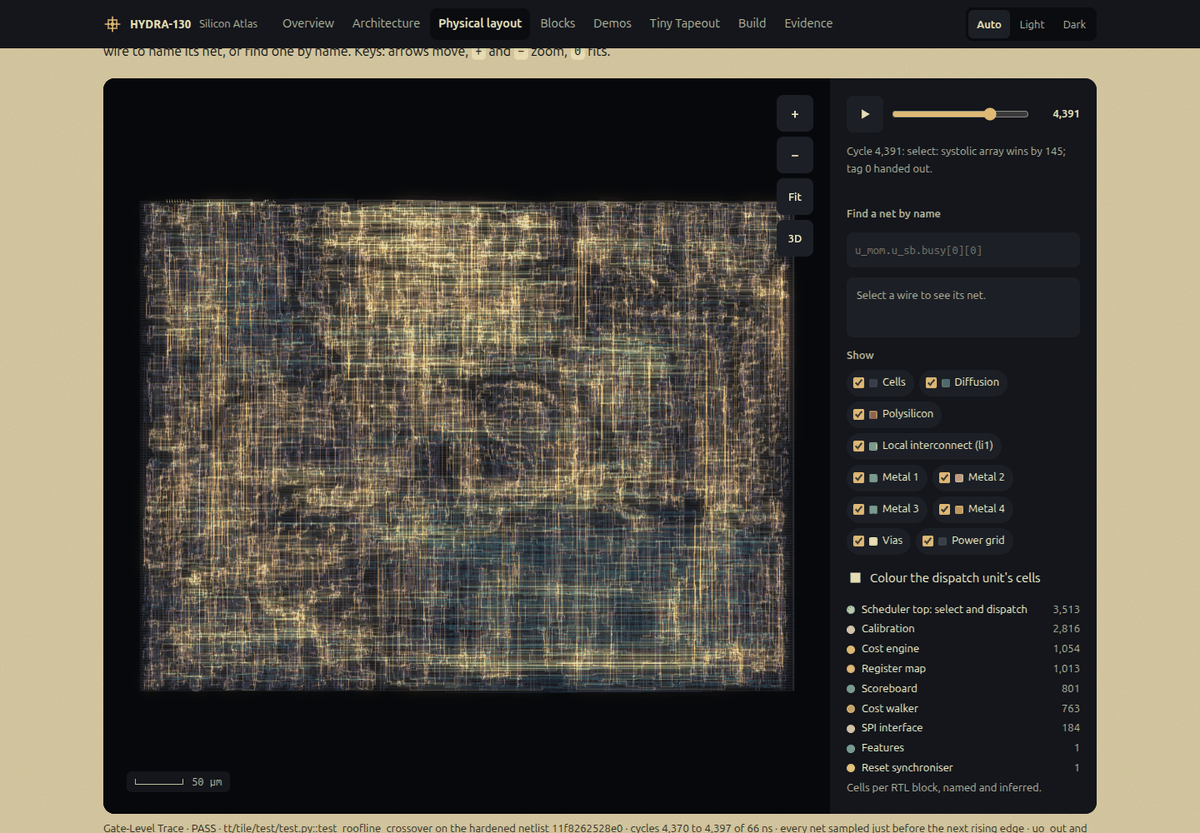
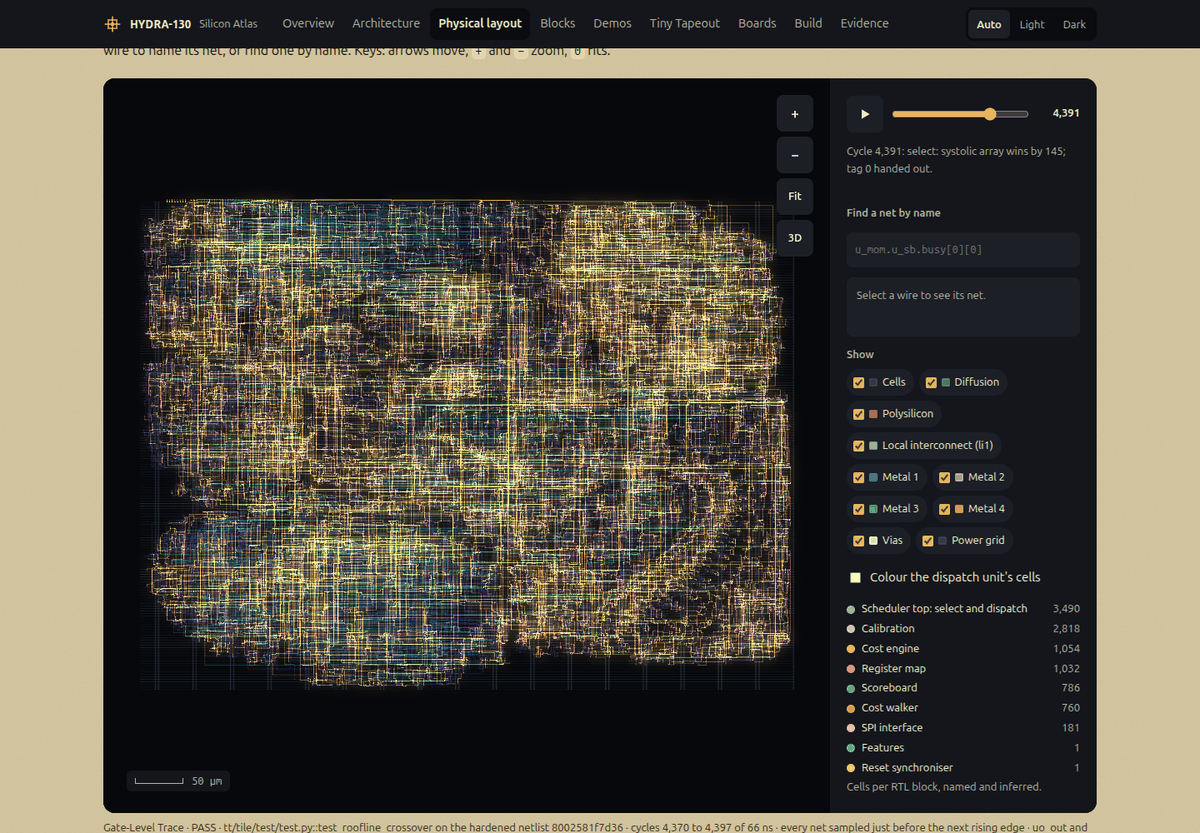
v68: every chip input read and the control space fully decoded (PINS register, address bits [13:4]); CPU console UART, LEDs and buttons routed to GPIO pads by I2C OWNER (0x0D); bare-metal C kit (make baremetal: hello.c on the model, the flat, cached and chip-SRAM CPU and the whole chip); microcontro

diff --git a/test/test_regs.py b/test/test_regs.py
@@ -22,7 +22,7 @@ from cocotb.triggers import ClockCycles
 from test import (build_descriptor, bit, start, Tile, OPC_GEMM, DT_INT8,
                   LAT_BALANCED, PWR_BALANCED, ENG_NAME, ENG_SIMD, ENG_TPU, NTAG,
                   ID_V3, A_ID, A_WD, A_CTRL, A_ACTION, A_COMP, A_STATUS, A_RESULT,
-                  A_RESERVED07, A_CALUPD, A_BUSY, A_FENCE, A_PARAM, A_GLOBAL, A_INFO,
+                  A_RESERVED07, A_CALUPD, A_BUSY, A_FENCE, A_PARAM, A_GLOBAL, A_INFO, A_PINS, A_GPO,
                   ST_READY, ST_BUSY, ST_PENDING, ST_WD_OK, ST_DISP, ST_UNSUPP,
                   ST_STALE, ST_FRAME, ST_GOERR, ST_FENCE, ST_PLOCK, ST_HOLD,
                   SMALL, LARGE)
@@ -390,3 +390,70 @@ async def test_reg_fence_on_a_tag_that_does_not_exist(dut):
         assert not bit(st, ST_FENCE), f"fence on nonexistent tag {tag} reads busy: {st:#06x}"
     await t.write(A_FENCE, 0)
     assert bit(await t.status(), ST_FENCE), "fence on a busy real tag reads free"
+
+
+@cocotb.test()
+async def test_reg_pins_read_every_spare_input(dut):
+    """PINS (0x0E, v3.11) gives every otherwise unused input pin a job.
+
+    ui_in[7:3] are general-purpose inputs, uio_in reads back the
+    bidirectional pads (on silicon they carry the tile's own tag and margin,
+    so a mismatch points at a pad driver or the board), and ena is bit 13.
+    The value must follow the pins through the two-flop synchroniser, bit for
+    bit, while SPI traffic runs on ui_in[2:0], and must never leak into the
+    SPI pins' function. A walking one and random patterns check every bit
+    and every position.
+    """
+    import random
+    rnd = random.Random(0x50E)
+    t = await start(dut)
+    patterns = [(1 << i) for i in range(14)] + [rnd.getrandbits(14) for _ in range(12)] + [0x3FFF, 0]
+    for want in patterns:
+        uio, gpi, ena = want & 0xFF, (want >> 8) & 0x1F, (want >> 13) & 1
+        dut.uio_in.value = uio
+        dut.ena.value = ena
+        t.gpi = gpi
+        t._set()
+        await ClockCycles(dut.clk, 3)
+        got, _ = await t.read(A_PINS)
+        assert got == want, f"PINS read {got:#06x}, pins are {want:#06x} (ena {ena}, ui_in[7:3] {gpi:#04x}, uio_in {uio:#04x})"
+    dut.ena.value = 1
+    # the spare inputs must not disturb the register interface
+    t.gpi = 0x1F
+    t._set()
+    ident, _ = await t.read(A_ID)
+    assert ident == ID_V3, f"ID read {ident:#x} with ui_in[7:3] all high"
+    assert not bit(await t.status(), ST_FRAME), "spare inputs caused a frame error"
+    # read-only: a write is a frame error and changes nothing
+    await t.write(A_PINS, 0x0000, nbytes=2)
+    assert bit(await t.status(), ST_FRAME), "write to PINS was not refused"
+    got, _ = await t.read(A_PINS)
+    assert got == (1 << 13) | (0x1F << 8), f"PINS changed by a write: {got:#06x}"
+
+
+@cocotb.test()
+async def test_reg_gpo_drives_the_spare_bidirectionals(dut):
+    """uio[3:2] were tag bits that four tags never set (always 0). Since
+    v3.11 they are general-purpose outputs written in GPO (0x0F): reset 0,
+    each value appears on the pins and reads back, the tag keeps uio[1:0],
+    and with uio_in looped back from uio_out (as the pads do on silicon) the
+    PINS register sees them."""
+    t = await start(dut)
+    assert (int(dut.uio_out.value) >> 2) & 3 == 0, "GPO not 0 after reset"
+    assert (await t.read(A_GPO))[0] == 0
+    st, r = await t.dispatch(SMALL)
+    assert bit(st, ST_DISP)
+    tag = r["tag"]
+    for v in (1, 2, 3, 0, 3):
+        await t.write(A_GPO, v)
+        uio = int(dut.uio_out.value)
+        assert (uio >> 2) & 3 == v, f"GPO wrote {v}, uio[3:2] = {(uio >> 2) & 3}"
+        assert uio & 3 == tag, f"the tag on uio[1:0] changed to {uio & 3} after a GPO write"
+        assert (await t.read(A_GPO))[0] == v, "GPO did not read back"
+        dut.uio_in.value = uio                    # the pads, looped back
+        await ClockCycles(dut.clk, 3)
+        pins, _ = await t.read(A_PINS)
+        assert pins & 0xFF == uio, f"PINS saw uio {pins & 0xFF:#04x}, pads carry {uio:#04x}"
+    assert not bit(await t.status(), ST_FRAME), "a GPO write was refused"
+    await t.write(A_GPO, 0xFC)                     # only bits 1:0 exist
+    assert (await t.read(A_GPO))[0] == 0, "GPO kept bits above [1:0]"

diff --git a/test/test.py b/test/test.py
@@ -58,10 +58,10 @@ ENG_NAME = {0: "CPU", 1: "SIMD", 2: "TPU", 3: "NTT", 4: "CRYPTO"}
 # ---------------------------------------------------------------------------
 A_ID, A_WD, A_CTRL, A_ACTION, A_COMP, A_STATUS = 0x00, 0x01, 0x02, 0x03, 0x04, 0x05
 A_RESULT, A_RESERVED07, A_CALUPD, A_BUSY, A_FENCE, A_PARAM = 0x06, 0x07, 0x08, 0x09, 0x0A, 0x0B
-A_GLOBAL, A_INFO = 0x0C, 0x0D
+A_GLOBAL, A_INFO, A_PINS, A_GPO = 0x0C, 0x0D, 0x0E, 0x0F
 LEN = {A_ID: 4, A_WD: 16, A_CTRL: 1, A_ACTION: 1, A_COMP: 1, A_STATUS: 2,
        A_RESULT: 6, A_CALUPD: 2, A_BUSY: 2, A_FENCE: 1, A_PARAM: 6,
-       A_GLOBAL: 2, A_INFO: 1}
+       A_GLOBAL: 2, A_INFO: 1, A_PINS: 2, A_GPO: 1}
 ID_V3 = 0x48594D33  # "HYM3"
 
 # STATUS bits (16-bit register, MSB first as documented in hydra_tt_regs.sv)
@@ -109,6 +109,7 @@ class Tile:
     def __init__(self, dut):
         self.dut = dut
         self.pins = 0b100          # CSn idle high
+        self.gpi = 0               # ui_in[7:3], the general-purpose inputs
 
     def _set(self, sck=None, copi=None, csn=None):
         if sck is not None:
@@ -117,7 +118,7 @@ class Tile:
             self.pins = (self.pins & ~0b010) | ((copi & 1) << 1)
         if csn is not None:
             self.pins = (self.pins & ~0b100) | ((csn & 1) << 2)
-        self.dut.ui_in.value = self.pins
+        self.dut.ui_in.value = self.pins | ((self.gpi & 0x1F) << 3)
 
     async def xfer(self, tx_bytes, stop_after=None):
         """One CS-framed transfer. Returns the bytes seen on CIPO.

diff --git a/test/mutate_sim.py b/test/mutate_sim.py
@@ -89,6 +89,18 @@ MUTATIONS = [
      "src/rtl/mom_top.sv", "        ccapable_q[lane_idx] <= lane_capable;",
      "        ccapable_q[lane_idx] <= lane_capable && !engine_full[lane_idx];",
      "test_full_only_engine_recovers"),
+    ("PINS reads the SPI pins instead of the spare inputs (v3.11)",
+     "src/tt_um_hydra_mom.sv", "pins_meta <= {ena, ui_in[7:3], uio_in};",
+     "pins_meta <= {ena, ui_in[6:2], uio_in};",
+     "test_reg_pins_read_every_spare_input"),
+    ("PINS register not wired: reads 0 (v3.11)",
+     "src/rtl/hydra_tt_regs.sv", "A_PINS:   rval = {{(WD_W-16){1'b0}}, pins_in};",
+     "A_PINS:   rval = {WD_W{1'b0}};",
+     "test_reg_pins_read_every_spare_input"),
+    ("GPO not on the pins: uio[3:2] stay 0 (v3.11)",
+     "src/tt_um_hydra_mom.sv", "assign uio_out = { r_margin_nib, r_gpo, r_last_tag[1:0] };",
+     "assign uio_out = { r_margin_nib, 2'b00, r_last_tag[1:0] };",
+     "test_reg_gpo_drives_the_spare_bidirectionals"),
 ]
 
 RESULT_RE = re.compile(r"\*\*\s+(test\w*)\.(\w+)\s+(PASS|FAIL)")

diff --git a/README.md b/README.md
@@ -27,9 +27,9 @@ Maintained by [@Normansrule](https://github.com/Normansrule)
 
 > **Where things stand, by revision.** This tile is the **scheduler only**: no central processing unit (CPU),
 > graphics processing unit (GPU), tensor processing unit (TPU), vector, transform or security hardware is on it.
-> The engines it chooses between are outside it, and the host reports when a job finished. The **v3.10** harden
-> (2026-10-18, one LibreLane run at 4×4 tiles, 66 ns) signed off with design rules, layout versus schematic and
-> antenna clean and timing met at all nine corners, and all 22 tests pass on its netlist. It still has **1,230
+> The engines it chooses between are outside it, and the host reports when a job finished. The **v3.12** harden
+> (2026-11-04, one LibreLane run at 4×4 tiles, 66 ns) signed off with design rules, layout versus schematic and
+> antenna clean and timing met at all nine corners, and all 24 tests pass on its netlist. It still has **218
 > slew warnings** at the slowest corner. A signed-off layout is not fabricated or tested silicon. This
 > repository's own `gds` workflow (Tiny Tapeout's GitHub flow, which builds the submission) does not yet finish:
 > its Verilator 5.018 lint stops on one reset loop in `src/project.v` (BLKLOOPINIT) that Verilator 5.032 accepts.
@@ -63,11 +63,11 @@ Maintained by [@Normansrule](https://github.com/Normansrule)
 This tile in motion, filmed from the atlas page:
 
 <p align="center">
-  <img src="docs/img/story.webp" width="100%" alt="The atlas's opening story filmed from the page: the hardened tile's whole routed layout, the dispatch unit's cells coloured by block, one decision lighting the wires cycle by cycle, single standard cells, the cells and four metal layers pulled apart into a turning 3D stack, and the whole tile again with the 1,813 nets that switched.">
+  <img src="docs/img/story.webp" width="100%" alt="The atlas's opening story filmed from the page: the hardened tile's whole routed layout, the dispatch unit's cells coloured by block, one decision lighting the wires cycle by cycle, single standard cells, the cells and four metal layers pulled apart into a turning 3D stack, and the whole tile again with the 2,125 nets that switched.">
 </p>
 
 The [Silicon Atlas](https://normansrule.github.io/hydra-skywater130/) opens on this tile's own routed layout from
-the v3.10 harden and zooms in while one decision plays on it. Each wire glows while its net is high in a
+the v3.12 harden and zooms in while one decision plays on it. Each wire glows while its net is high in a
 gate-level simulation of the hardened netlist. First the dispatch logic's cells, coloured by the RTL block each
 belongs to:
 
@@ -94,7 +94,7 @@ And back out to the whole tile, with every net that is high at the select glowin
 
 <picture>
   <source media="(prefers-color-scheme: dark)" srcset="docs/img/atlas-switched.dark.png">
-  <img src="docs/img/atlas-switched.png" width="100%" alt="The whole tile with the nets that are high at the select glowing amber, and the card: 1,813 nets switched to make one decision, 12% of the tile's nets, changing value 3,911 times in 28 cycles.">
+  <img src="docs/img/atlas-switched.png" width="100%" alt="The whole tile with the nets that are high at the select glowing amber, and the card: 2,125 nets switched to make one decision, 13% of the tile's nets, changing value 4,687 times in 28 cycles.">
 </picture>
 
 The same layout is a free explorer: zoom, step through the recorded cycles, switch layers, select a wire to name
@@ -213,8 +213,10 @@ by Tiny Tapeout's own tool (`make render-layout` in the parent). A layout, not f
 
 | check | result |
 |---|---|
-| Tile tests on RTL (`make tile` in the parent) | **22 / 22** |
+| Tile tests on RTL (`make tile` in the parent) | **24 / 24** |
 | Deliberate breaks (`test/mutate_sim.py`) | each caught by the test named for it |
+| v3.12 harden, 2026-11-04 (MAX_FANOUT_CONSTRAINT 6; netlist proved equivalent to v3.11) | sign-off clean: DRC, LVS, antenna 0; setup +7.23 ns (v3.12), hold +0.096 ns worst corner; 51.7% of the core; **slew 218 / 156 / 113** at the slow corners and 12 / 0 / 0 at the typical corners, 0 capacitance |
+| Gate level on the v3.12 netlist | **24 / 24** |
 | v3.10 harden, 2026-10-18 (the scheduler liveness fix) | sign-off clean: DRC, LVS, antenna 0; setup +14.06 ns (v3.10), hold +0.105 ns worst corner; 48.6% of the core; **slew 1,230 / 819 / 557** at the slow corners and 21 / 11 / 11 at the typical corners, 0 capacitance |
 | Gate level on the v3.10 netlist | **22 / 22** (the new test is `test_full_only_engine_recovers`) |
 | Verilator `-Wall` on `src/project.v` | **0 warnings** |

diff --git a/docs/info.md b/docs/info.md
@@ -133,12 +133,12 @@ peripheral at 1 MHz, a few milliseconds bit-banged.
 
 ## Verification before tapeout
 
-- 22 cocotb tests from the pins: the roofline crossover, retuning that moves
+- 24 cocotb tests from the pins: the roofline crossover, retuning that moves
   the decision, a calibration loop that closes on real elapsed cycles,
   back-pressure, every op class and data type terminating, reset in the middle
   of a frame, tag exhaustion, stale and out-of-range completions, torn frames
-- 18 deliberate breaks of the design (`test/mutate_sim.py`), each of which
-  must make a named test fail; all 18 are caught
+- 21 deliberate breaks of the design (`test/mutate_sim.py`), each of which
+  must make a named test fail; all 21 are caught (`make mutate`, 2026-11-04)
 - In the parent repository, which compiles the same dispatcher modules: the
   shared cost engine makes the same decision as five parallel ones on every
   descriptor given (`make cost-mux`), the SPI slave is proved by induction,
@@ -146,10 +146,10 @@ peripheral at 1 MHz, a few milliseconds bit-banged.
 
 ## Timing and area
 
-The latest signed-off harden is v3.10 (2026-10-18, 4x4, one LibreLane run):
-every corner met setup at 66 ns, worst setup slack +14.06 ns and worst hold
-slack +0.105 ns, DRC, LVS and antenna clean, 48.6% utilisation, and 22 of 22
-tests pass on the hardened netlist. It still has 1,230 slew warnings at the
+The latest signed-off harden is v3.12 (2026-11-04, 4x4, one LibreLane run):
+every corner met setup at 66 ns, worst setup slack +7.23 ns and worst hold
+slack +0.096 ns, DRC, LVS and antenna clean, 51.7% utilisation, and 24 of 24
+tests pass on the hardened netlist. It still has 218 slew warnings at the
 slowest corner. The first signed-off harden was v2 (2026-10-05, 4x4: slow-corner
 slack +2.199 ns, 17 of 17 tests on its netlist). v3 is the same logic minus the
 parts listed at the top of `info.yaml`, on 4x4 tiles (3x4 was tried for v3.1
